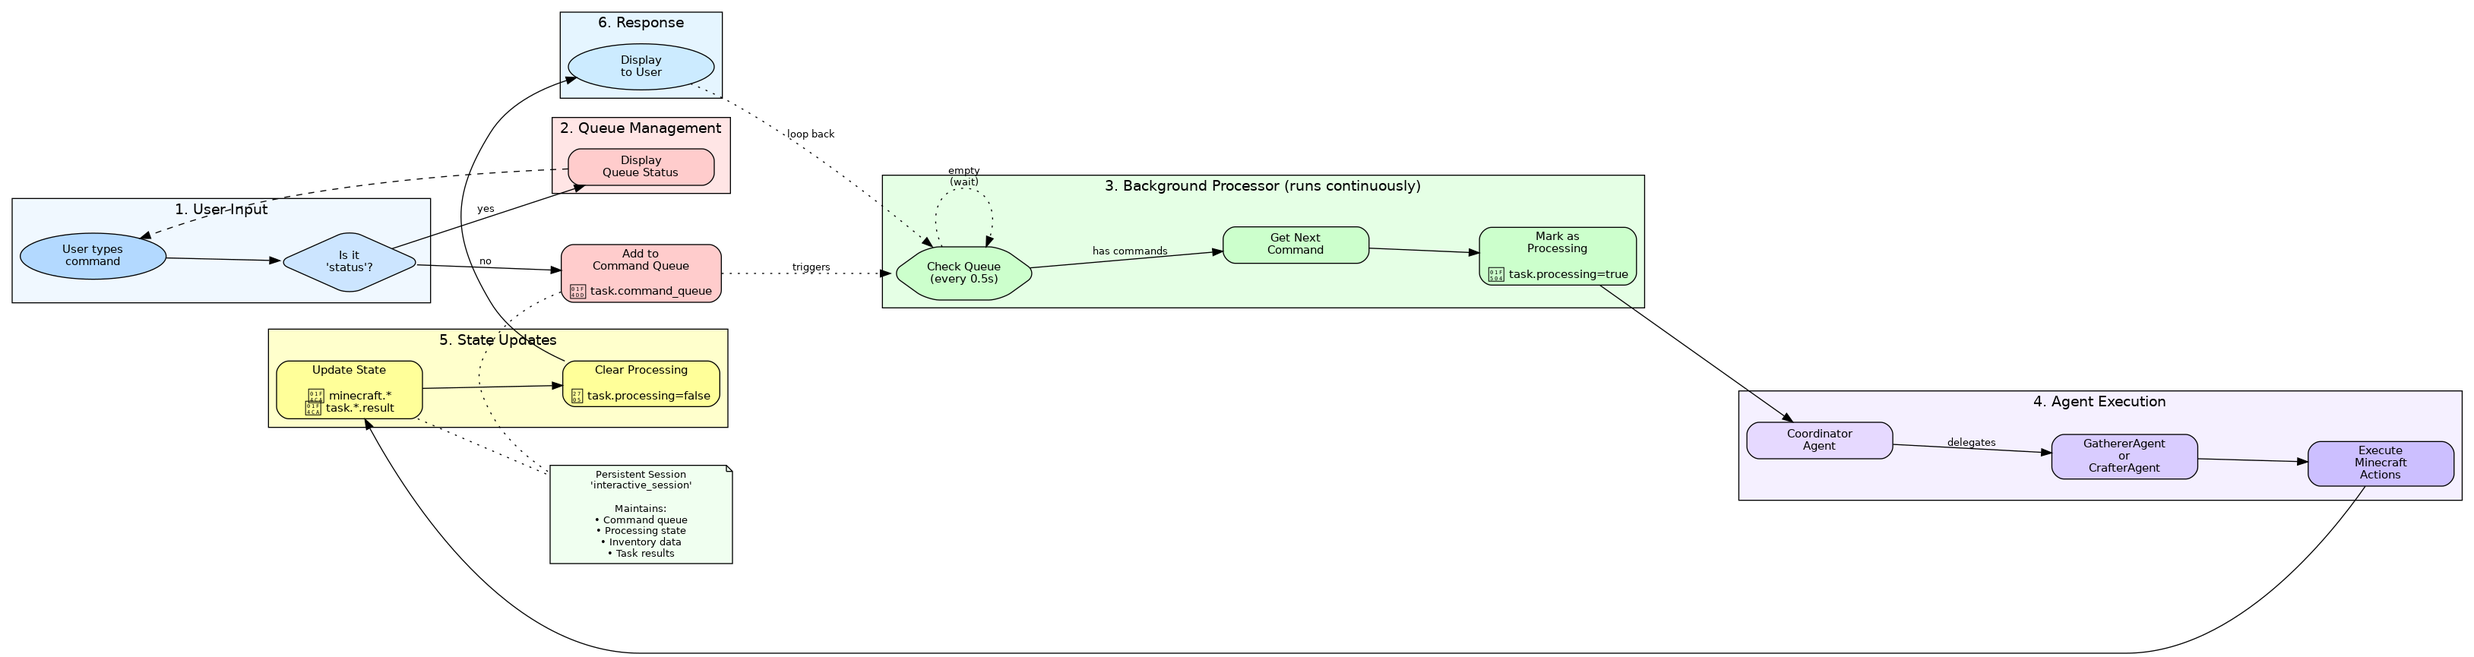
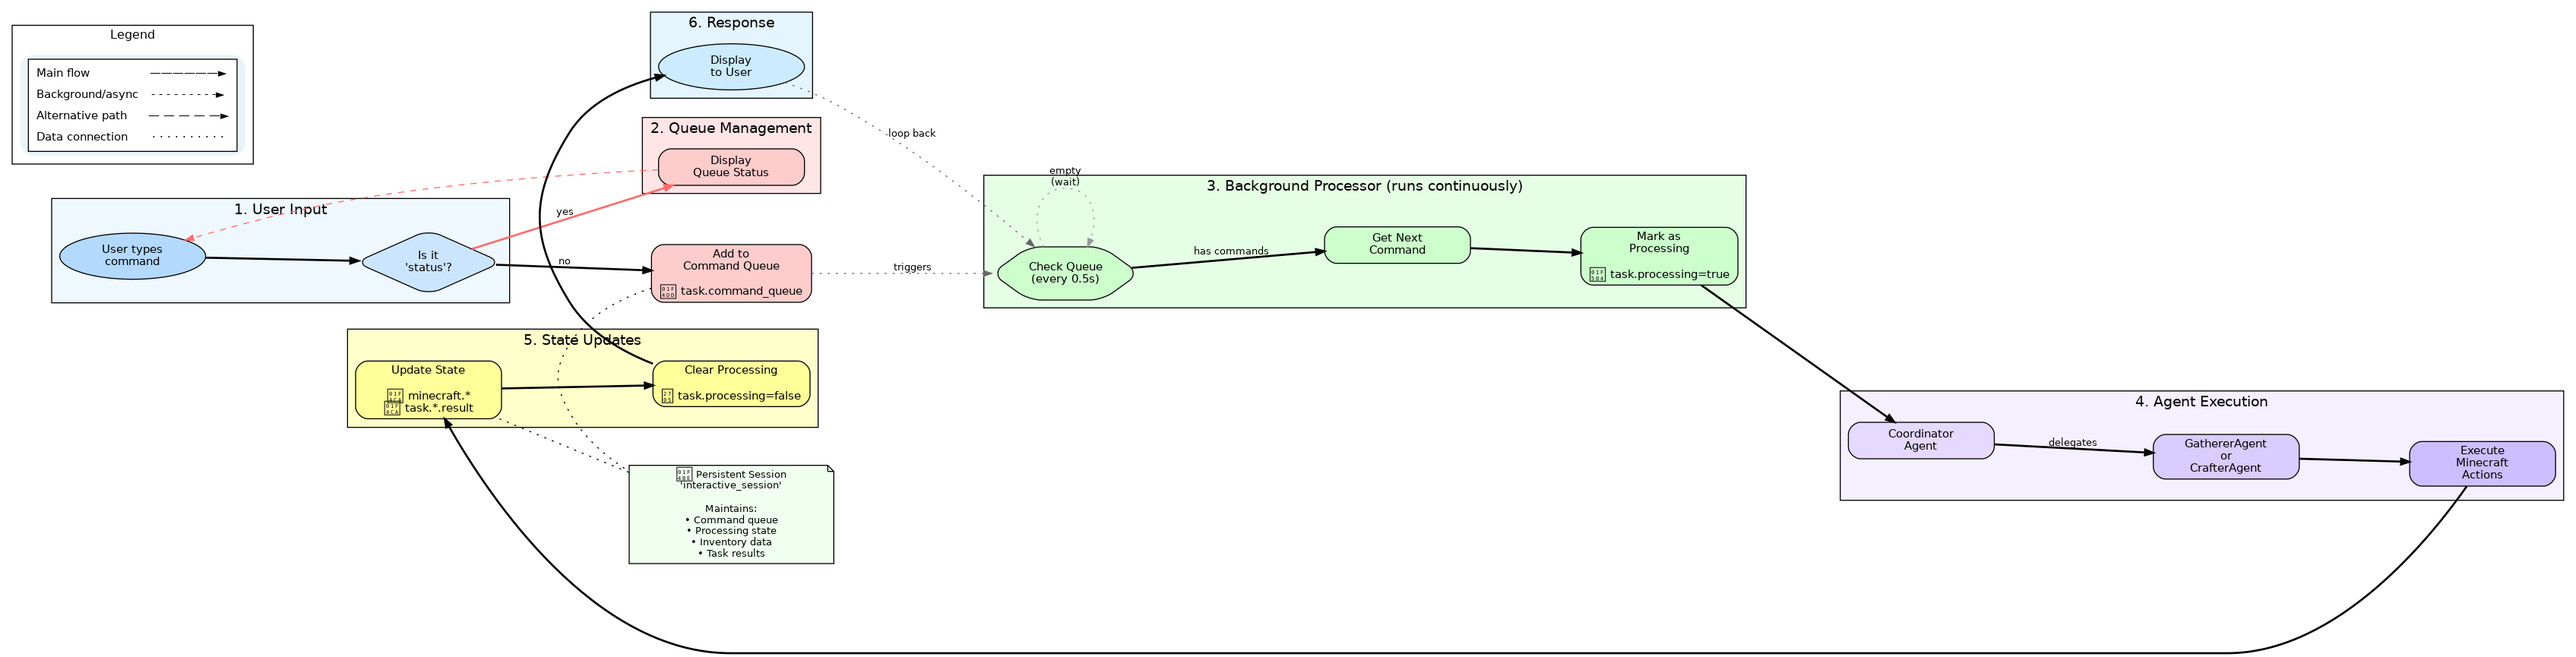
docs: improve flow diagram and README explanation

diff --git a/README.md b/README.md
@@ -30,14 +30,18 @@ User → main.py → CoordinatorAgent → [GathererAgent, CrafterAgent]
 
 ### Interactive Agent Loop Architecture
 
-![Interactive Agent Loop](docs/interactive-agent-loop-simple.png)
+![Interactive Agent Loop](docs/interactive-agent-loop-flow.png)
 
-The interactive mode implements a persistent session with command queuing:
-- **User Input**: Type commands naturally, they're automatically queued
-- **Background Processing**: Continuously checks and processes commands
-- **Persistent Session**: Maintains all state (inventory, position, results) between commands
-- **Agent Execution**: Coordinator delegates to specialized sub-agents
-- **Results Display**: Responses shown as commands complete
+The interactive mode implements a persistent session with command queuing through six distinct stages:
+
+1. **User Input**: Commands are entered naturally and checked for special operations (like 'status')
+2. **Queue Management**: Commands are added to a persistent queue stored in session state
+3. **Background Processor**: A continuous loop checks the queue every 0.5 seconds for new commands
+4. **Agent Execution**: The Coordinator delegates tasks to specialized sub-agents (Gatherer/Crafter)
+5. **State Updates**: All results and game state are saved to the persistent session
+6. **Response Display**: Results are shown to the user as commands complete
+
+The entire flow maintains a single persistent session throughout, ensuring agents remember previous interactions and can build upon past actions.
 
 ## 🚀 Quick Start
 
